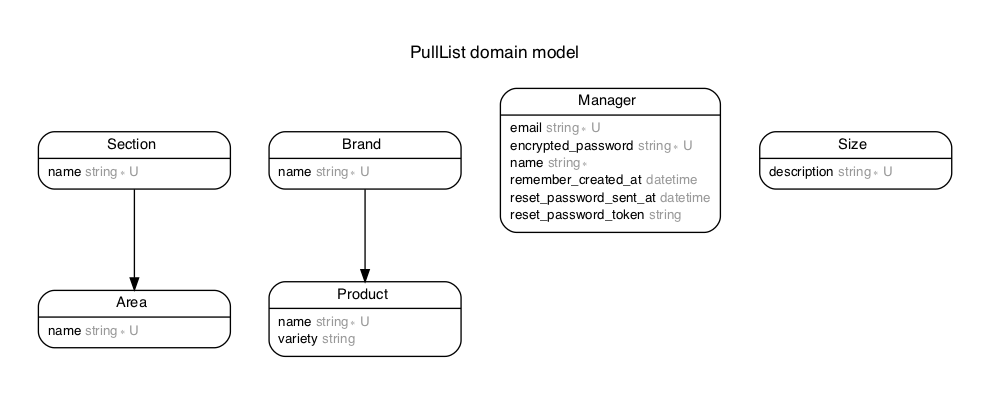
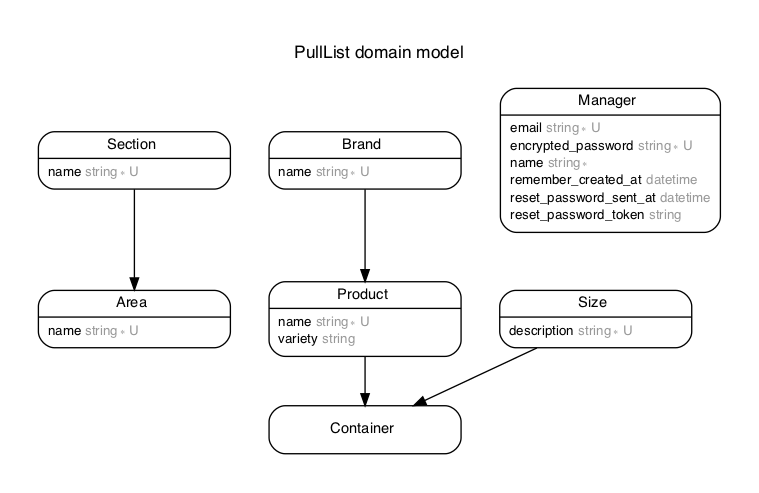
Add Container model
Joins Product and Size models.

Changed region(s): [[0.0303, 0.1519, 0.9697, 0.9418], [0.3636, 0.0911, 0.6061, 0.1519], [0.6364, 0.7291, 0.6667, 0.7595]]

diff --git a/db/schema.rb b/db/schema.rb
@@ -10,7 +10,7 @@
 #
 # It's strongly recommended that you check this file into your version control system.
 
-ActiveRecord::Schema.define(version: 2021_08_21_031341) do
+ActiveRecord::Schema.define(version: 2021_08_23_190252) do
 
   # These are extensions that must be enabled in order to support this database
   enable_extension "plpgsql"
@@ -29,6 +29,16 @@ ActiveRecord::Schema.define(version: 2021_08_21_031341) do
     t.datetime "created_at", precision: 6, null: false
     t.datetime "updated_at", precision: 6, null: false
     t.index ["name"], name: "index_brands_on_name", unique: true
+  end
+
+  create_table "containers", force: :cascade do |t|
+    t.bigint "product_id", null: false
+    t.bigint "size_id", null: false
+    t.datetime "created_at", precision: 6, null: false
+    t.datetime "updated_at", precision: 6, null: false
+    t.index ["product_id", "size_id"], name: "index_containers_on_product_id_and_size_id", unique: true
+    t.index ["product_id"], name: "index_containers_on_product_id"
+    t.index ["size_id"], name: "index_containers_on_size_id"
   end
 
   create_table "managers", force: :cascade do |t|
@@ -69,5 +79,7 @@ ActiveRecord::Schema.define(version: 2021_08_21_031341) do
   end
 
   add_foreign_key "areas", "sections", on_delete: :cascade
+  add_foreign_key "containers", "products", on_delete: :cascade
+  add_foreign_key "containers", "sizes", on_delete: :cascade
   add_foreign_key "products", "brands", on_delete: :cascade
 end

diff --git a/spec/models/container_spec.rb b/spec/models/container_spec.rb
@@ -1,0 +1,37 @@
+# frozen_string_literal: true
+
+# == Schema Information
+#
+# Table name: containers
+#
+#  id         :bigint           not null, primary key
+#  created_at :datetime         not null
+#  updated_at :datetime         not null
+#  product_id :bigint           not null
+#  size_id    :bigint           not null
+#
+# Indexes
+#
+#  index_containers_on_product_id              (product_id)
+#  index_containers_on_product_id_and_size_id  (product_id,size_id) UNIQUE
+#  index_containers_on_size_id                 (size_id)
+#
+# Foreign Keys
+#
+#  fk_rails_...  (product_id => products.id) ON DELETE => cascade
+#  fk_rails_...  (size_id => sizes.id) ON DELETE => cascade
+#
+require "rails_helper"
+
+RSpec.describe Container, type: :model do
+  describe "associations" do
+    it { should belong_to(:product) }
+    it { should belong_to(:size) }
+  end
+
+  describe "validations" do
+    subject { create :container }
+
+    it { should validate_uniqueness_of(:size_id).scoped_to(:product_id) }
+  end
+end

diff --git a/app/models/container.rb b/app/models/container.rb
@@ -1,0 +1,29 @@
+# frozen_string_literal: true
+
+# == Schema Information
+#
+# Table name: containers
+#
+#  id         :bigint           not null, primary key
+#  created_at :datetime         not null
+#  updated_at :datetime         not null
+#  product_id :bigint           not null
+#  size_id    :bigint           not null
+#
+# Indexes
+#
+#  index_containers_on_product_id              (product_id)
+#  index_containers_on_product_id_and_size_id  (product_id,size_id) UNIQUE
+#  index_containers_on_size_id                 (size_id)
+#
+# Foreign Keys
+#
+#  fk_rails_...  (product_id => products.id) ON DELETE => cascade
+#  fk_rails_...  (size_id => sizes.id) ON DELETE => cascade
+#
+class Container < ApplicationRecord
+  belongs_to :product
+  belongs_to :size
+
+  validates :size_id, uniqueness: { scope: :product_id }
+end

diff --git a/spec/factories/containers.rb b/spec/factories/containers.rb
@@ -1,0 +1,29 @@
+# frozen_string_literal: true
+
+# == Schema Information
+#
+# Table name: containers
+#
+#  id         :bigint           not null, primary key
+#  created_at :datetime         not null
+#  updated_at :datetime         not null
+#  product_id :bigint           not null
+#  size_id    :bigint           not null
+#
+# Indexes
+#
+#  index_containers_on_product_id              (product_id)
+#  index_containers_on_product_id_and_size_id  (product_id,size_id) UNIQUE
+#  index_containers_on_size_id                 (size_id)
+#
+# Foreign Keys
+#
+#  fk_rails_...  (product_id => products.id) ON DELETE => cascade
+#  fk_rails_...  (size_id => sizes.id) ON DELETE => cascade
+#
+FactoryBot.define do
+  factory :container do
+    product
+    size
+  end
+end

diff --git a/db/migrate/20210823190252_create_containers.rb b/db/migrate/20210823190252_create_containers.rb
@@ -1,0 +1,10 @@
+class CreateContainers < ActiveRecord::Migration[6.1]
+  def change
+    create_table :containers do |t|
+      t.belongs_to :product, null: false, foreign_key: { on_delete: :cascade }
+      t.belongs_to :size, null: false, foreign_key: { on_delete: :cascade }
+      t.timestamps
+      t.index [:product_id, :size_id], unique: true
+    end
+  end
+end

diff --git a/spec/models/product_spec.rb b/spec/models/product_spec.rb
@@ -25,6 +25,10 @@ require "rails_helper"
 RSpec.describe Product, type: :model do
   describe "associations" do
     it { should belong_to(:brand) }
+
+    it { should have_many(:containers).dependent(:destroy) }
+
+    it { should have_many(:sizes).through(:containers) }
   end
 
   describe "validations" do

diff --git a/app/models/product.rb b/app/models/product.rb
@@ -23,6 +23,10 @@
 class Product < ApplicationRecord
   belongs_to :brand
 
+  has_many :containers, dependent: :destroy
+
+  has_many :sizes, through: :containers
+
   validates :name, presence: true
   validates :name, uniqueness: { scope: [:brand_id, :variety] }
 
